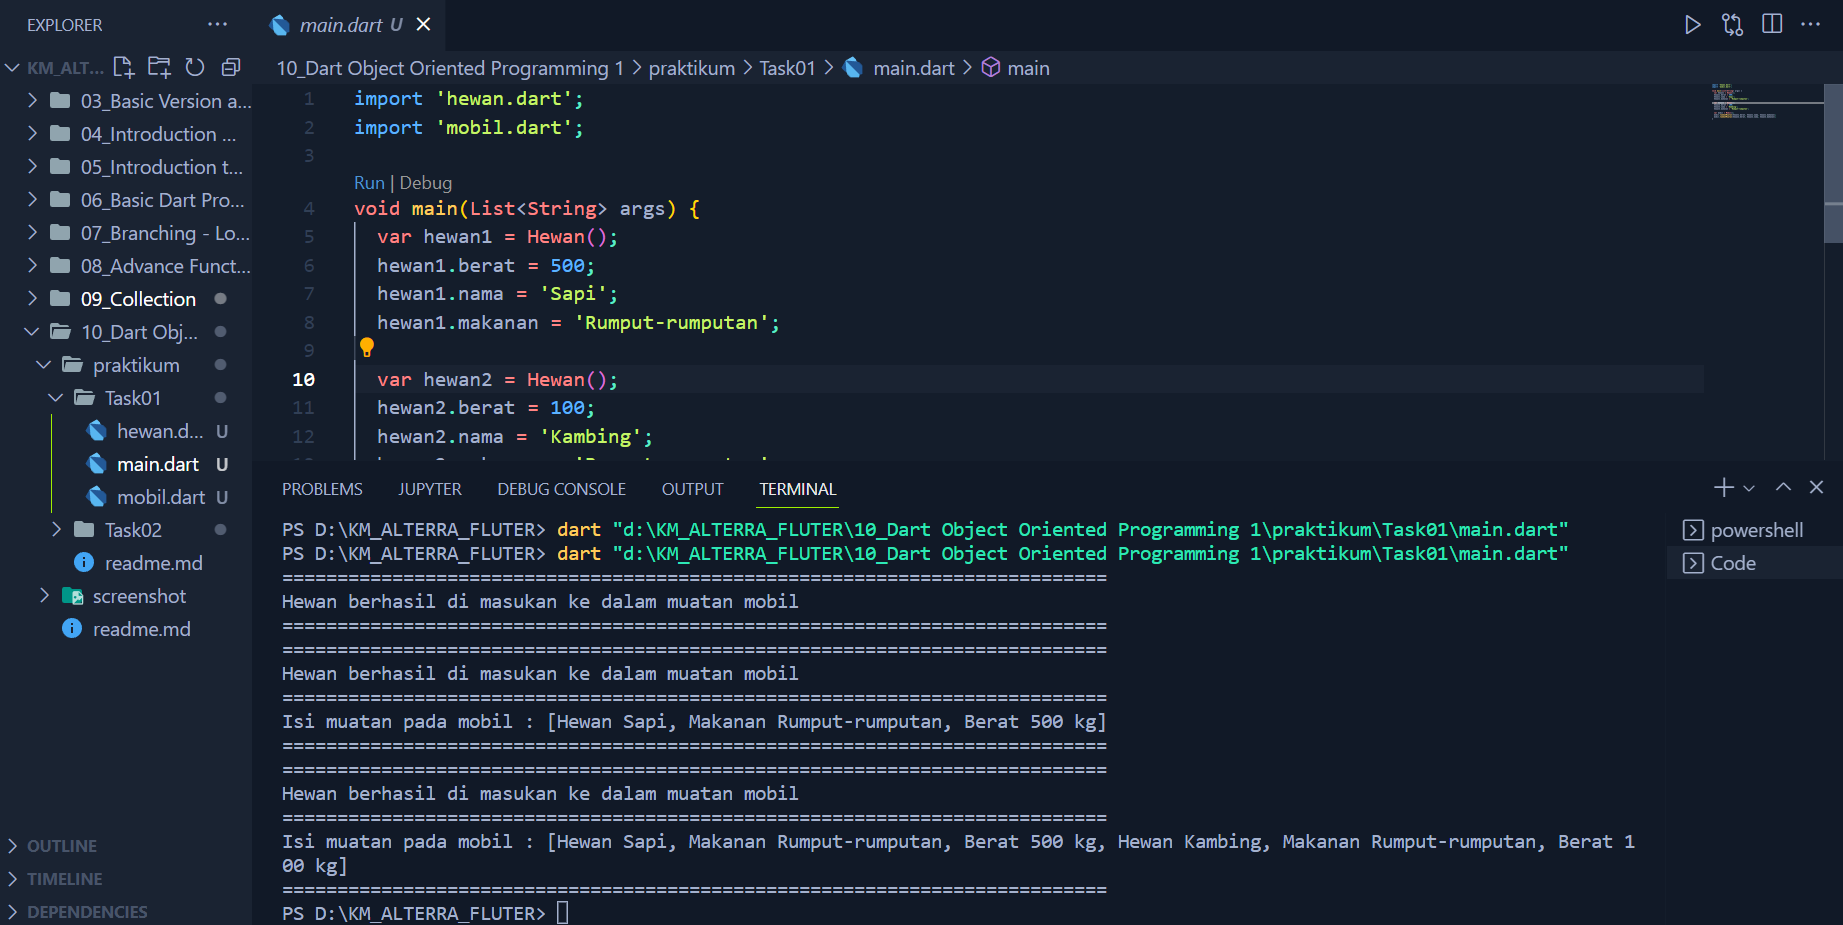
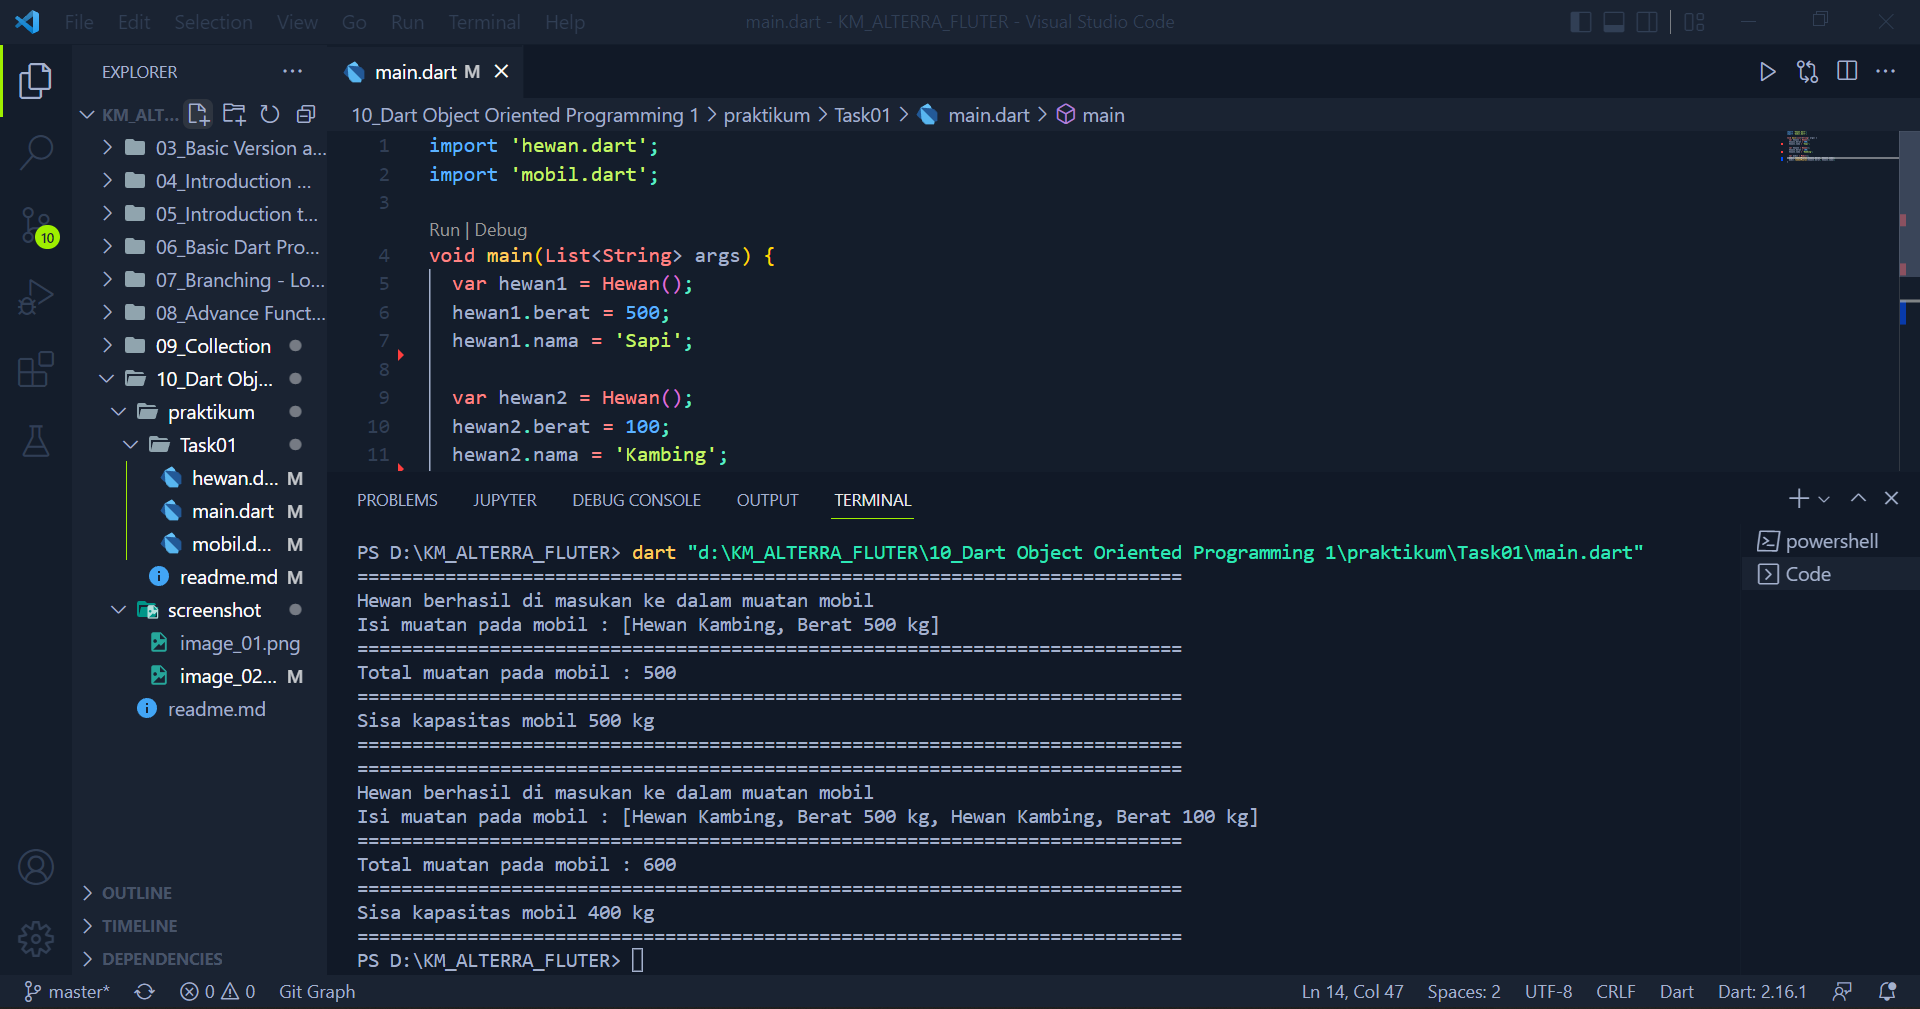
merubah folder 10_dart OOP 1

diff --git a/10_Dart Object Oriented Programming 1/praktikum/Task01/mobil.dart b/10_Dart Object Oriented Programming 1/praktikum/Task01/mobil.dart
@@ -1,25 +1,26 @@
 class Mobil {
   var kapasitas = 1000;
-  // var totalMuatan = 200;
+  var totalMuatan = 0;
   List<String> muatan = [];
 
-  void tambahMuatan(int berat, String nama, makanan) {
-    if (kapasitas - berat >= 0) {
+  void tambahMuatan(int berat, String nama) {
+    if (kapasitas >= berat ) {
       kapasitas -= berat;
-      // totalMuatan += berat;
-      muatan.add('Hewan $nama, Makanan $makanan, Berat ${berat.toString()} kg');
+      totalMuatan += berat;
+      muatan.add('Hewan $nama, Berat ${berat.toString()} kg');
       print(
           '===========================================================================');
 
       print('Hewan berhasil di masukan ke dalam muatan mobil');
-      print(
-          '===========================================================================');
       print('Isi muatan pada mobil : $muatan');
       print(
           '===========================================================================');
-
-      // print('Jadi total muatan pada mobil adalah $totalMuatan kg');
-
+      print('Total muatan pada mobil : $totalMuatan');
+      print(
+          '===========================================================================');
+      print('Sisa kapasitas mobil $kapasitas kg');
+      print(
+          '===========================================================================');
     } else {
       print('Muatan pada mobil tidak mencukupi');
     }

diff --git a/10_Dart Object Oriented Programming 1/praktikum/Task01/main.dart b/10_Dart Object Oriented Programming 1/praktikum/Task01/main.dart
@@ -5,14 +5,12 @@ void main(List<String> args) {
   var hewan1 = Hewan();
   hewan1.berat = 500;
   hewan1.nama = 'Sapi';
-  hewan1.makanan = 'Rumput-rumputan';
 
   var hewan2 = Hewan();
   hewan2.berat = 100;
   hewan2.nama = 'Kambing';
-  hewan2.makanan = 'Rumput-rumputan';
 
   var mobil = Mobil();
-  mobil.tambahMuatan(hewan1.berat, hewan1.nama, hewan1.makanan);
-  mobil.tambahMuatan(hewan2.berat, hewan2.nama, hewan2.makanan);
+  mobil.tambahMuatan(hewan1.berat, hewan2.nama);
+  mobil.tambahMuatan(hewan2.berat, hewan2.nama);
 }

diff --git a/10_Dart Object Oriented Programming 1/praktikum/Task01/hewan.dart b/10_Dart Object Oriented Programming 1/praktikum/Task01/hewan.dart
@@ -1,5 +1,4 @@
 class Hewan {
   var berat;
   var nama;
-  var makanan;
 }

diff --git a/10_Dart Object Oriented Programming 1/praktikum/readme.md b/10_Dart Object Oriented Programming 1/praktikum/readme.md
@@ -84,9 +84,5 @@ Pada Task_01 di materi Dart Object Oriented Programming 1 yaitu mengerjakan soal
 ![image](/10_Dart%20Object%20Oriented%20Programming%201/screenshot/image_01.png)
 
 ### [Task 02 🗒](#descriptive-)
-Pada Task_02 di materi di materi Dart Object Oriented Programming 1 yaitu mengerjakan soal praktikum no.1
+Pada Task_02 di materi di materi Dart Object Oriented Programming 1 yaitu mengerjakan soal praktikum no.1 dan no.2
 ![image](/10_Dart%20Object%20Oriented%20Programming%201/screenshot/image_02.png)
-
-### [Task 03 🗒](#descriptive-)
-Pada Task_03 di materi di materi Dart Object Oriented Programming 1 yaitu mengerjakan soal praktikum no.2
-![image](/10_Dart%20Object%20Oriented%20Programming%201/screenshot/image_03.png)
